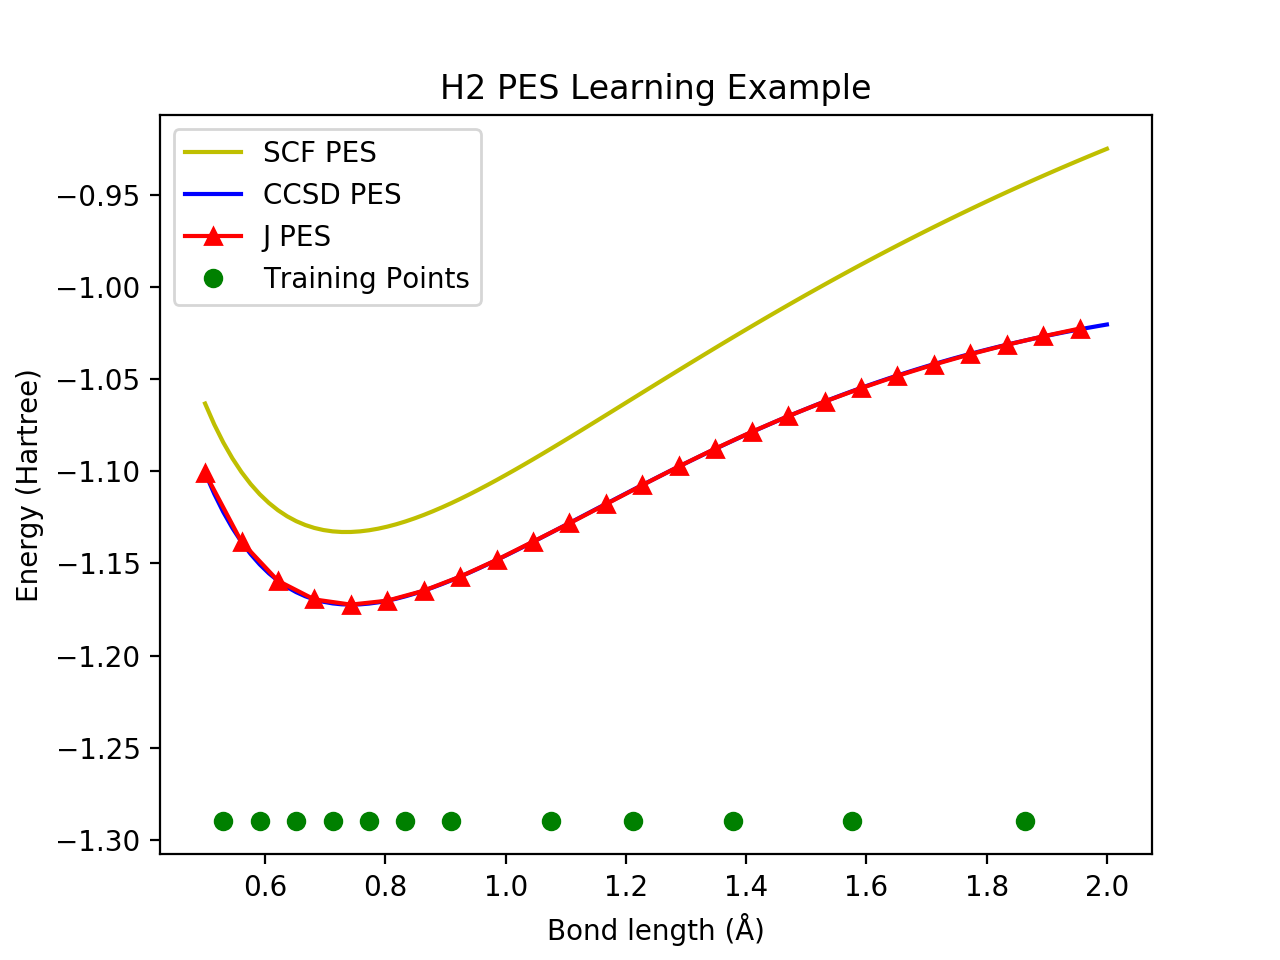
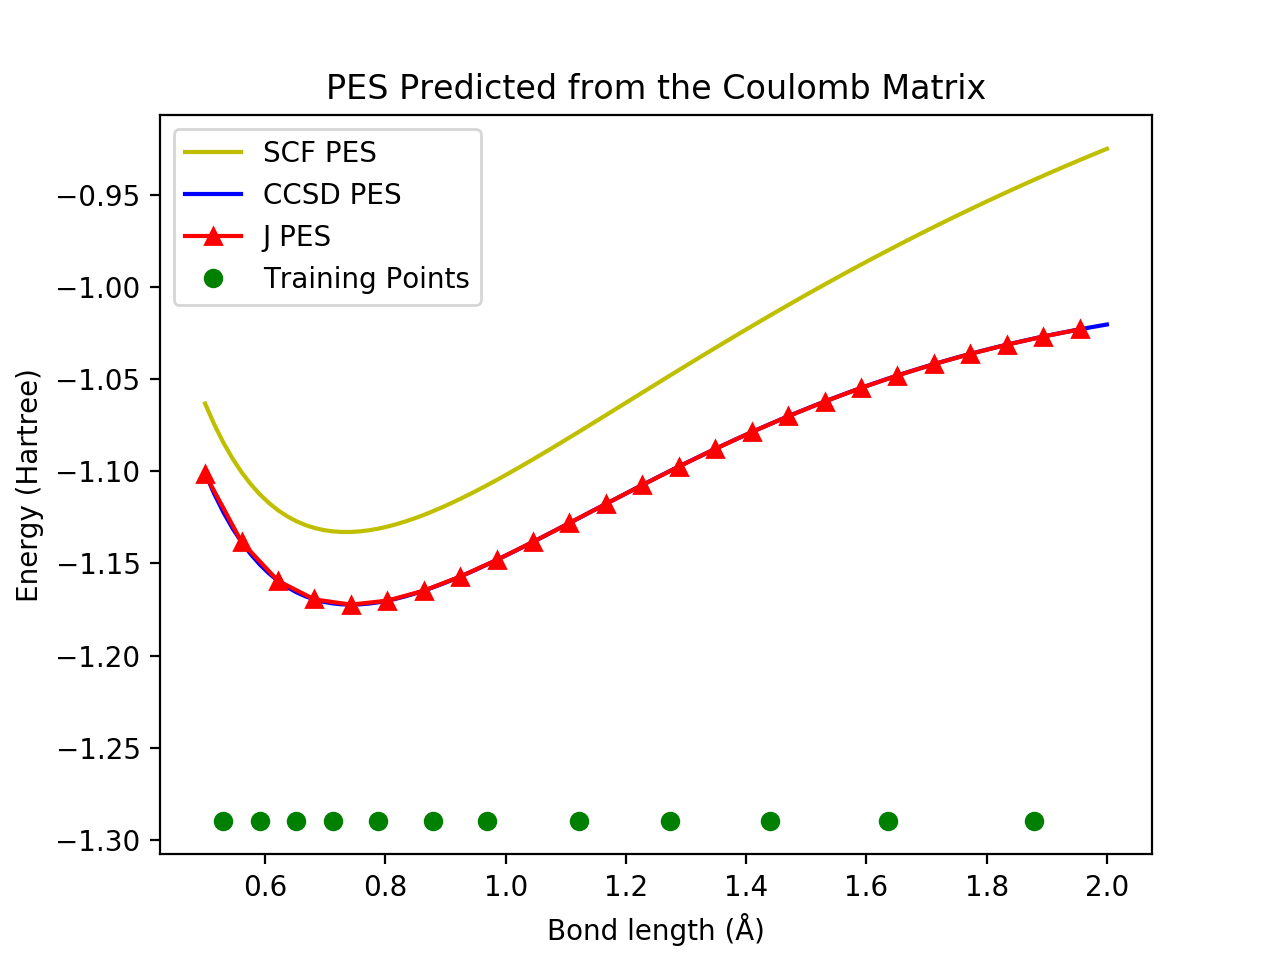
Ran it and it works.

diff --git a/mlqm/mlqm/core.py b/mlqm/mlqm/core.py
@@ -8,6 +8,7 @@ import copy
 from . import train
 from . import datahelper
 from . import krr
+import os
 
 class Mol_Set(object):
     """
@@ -341,12 +342,12 @@ class Dataset(object):
         if inpf is not None:
             if isinstance(inpf,str):
                 if not os.path.isfile(inpf) and \
-                   (("raise_on_error" in kwargs and kwargs["raise_on_error"] or
+                   (("raise_on_error" in kwargs and kwargs["raise_on_error"]) or
                      "raise_on_error" not in kwargs) :
                     raise FileNotFoundError(f"Could not find the file {inpf}:"
                                         + " Can not create Dataset.")
                 elif not os.path.isfile(inpf) and \
-                    ("raise_on_error" in kwargs and not kwargs["raise_on_error"):
+                    ("raise_on_error" in kwargs and not kwargs["raise_on_error"]):
                      print(f"Could not find the file {inpf}: Initializing empty"
                            + " Dataset")
                      self.inpf = inpf

diff --git a/examples/h2_pes/coulomb/run.py b/examples/h2_pes/coulomb/run.py
@@ -31,7 +31,8 @@ np.save("charges.npy", np.array([mol.fZ(i) for i in range(mol.natom())]))
     ccsd_E = np.add(scf_E, ccsd_corr)
     geoms = [m for m in list(results["geom.npy"].values())]
     charges = [m for m in list(results["charges.npy"].values())]
-    reps = mlqm.repgen.make_coulomb(geoms, charges)
+    reps = [mlqm.repgen.make_coulomb(geoms[m], charges[m]).flatten()
+            for m in range(len(geoms))]
 
     ds = mlqm.Dataset(inpf = "ml.json", reps = reps, vals = ccsd_corr)
 
